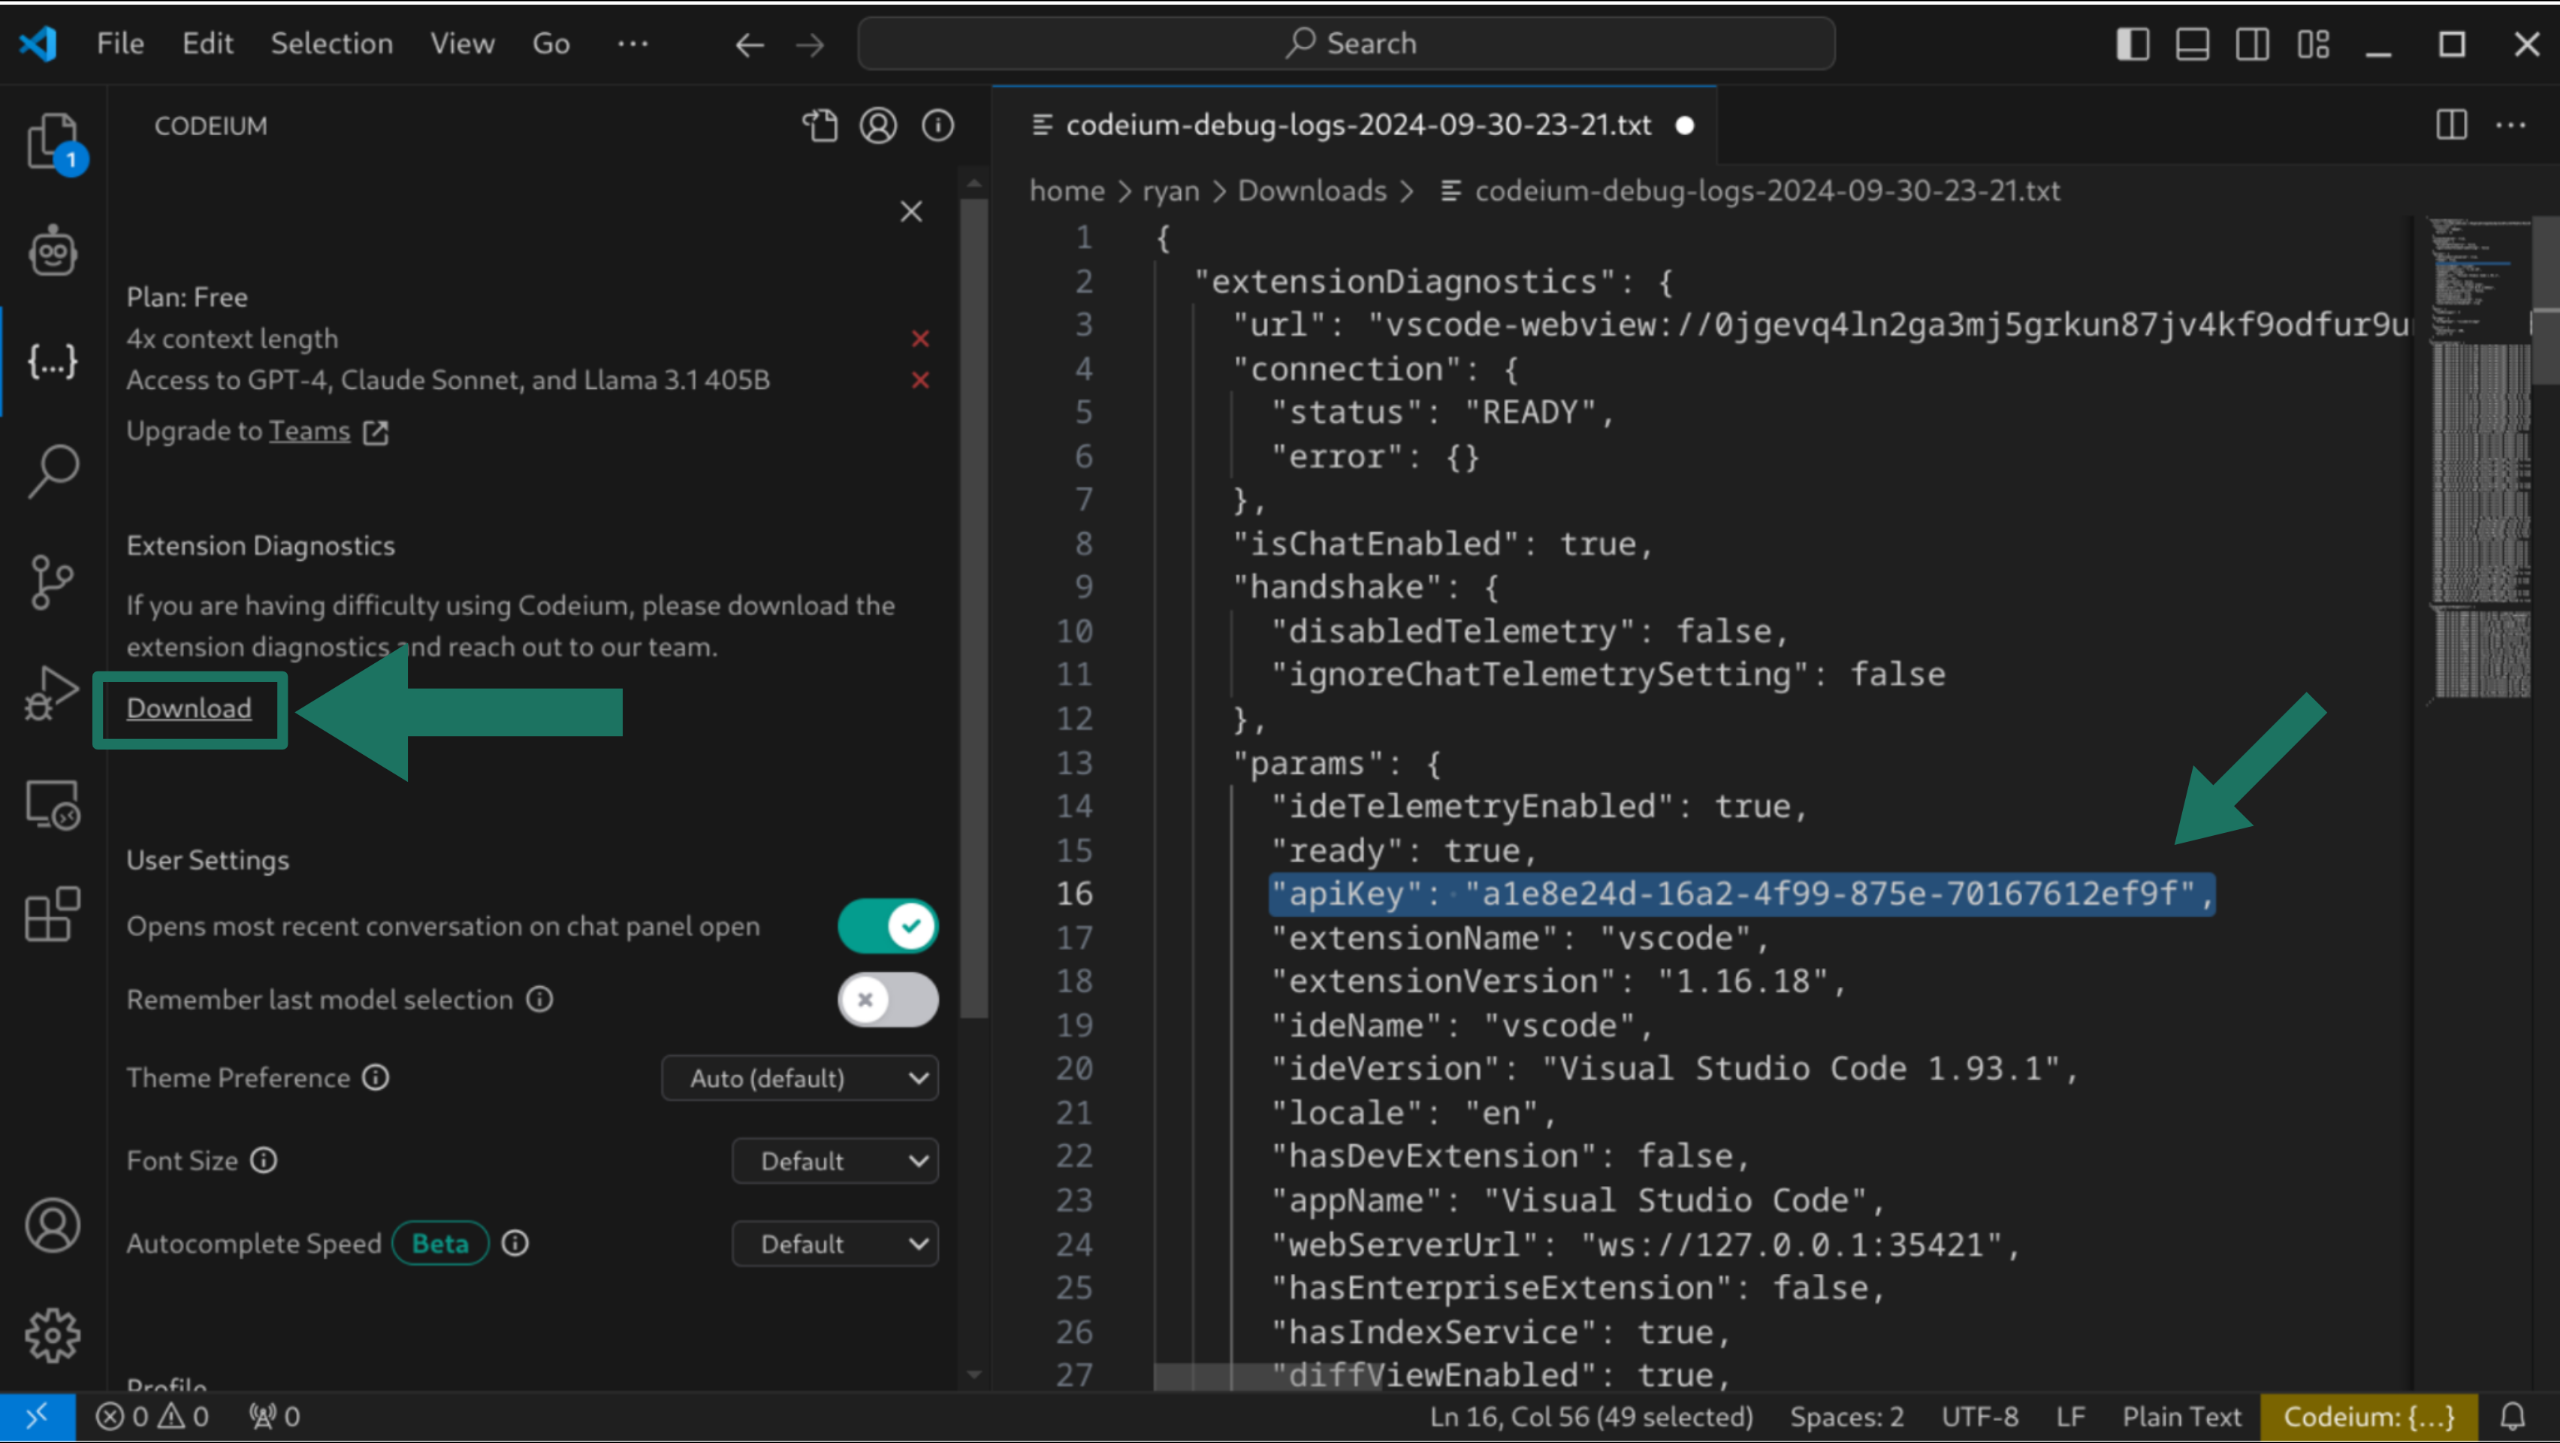
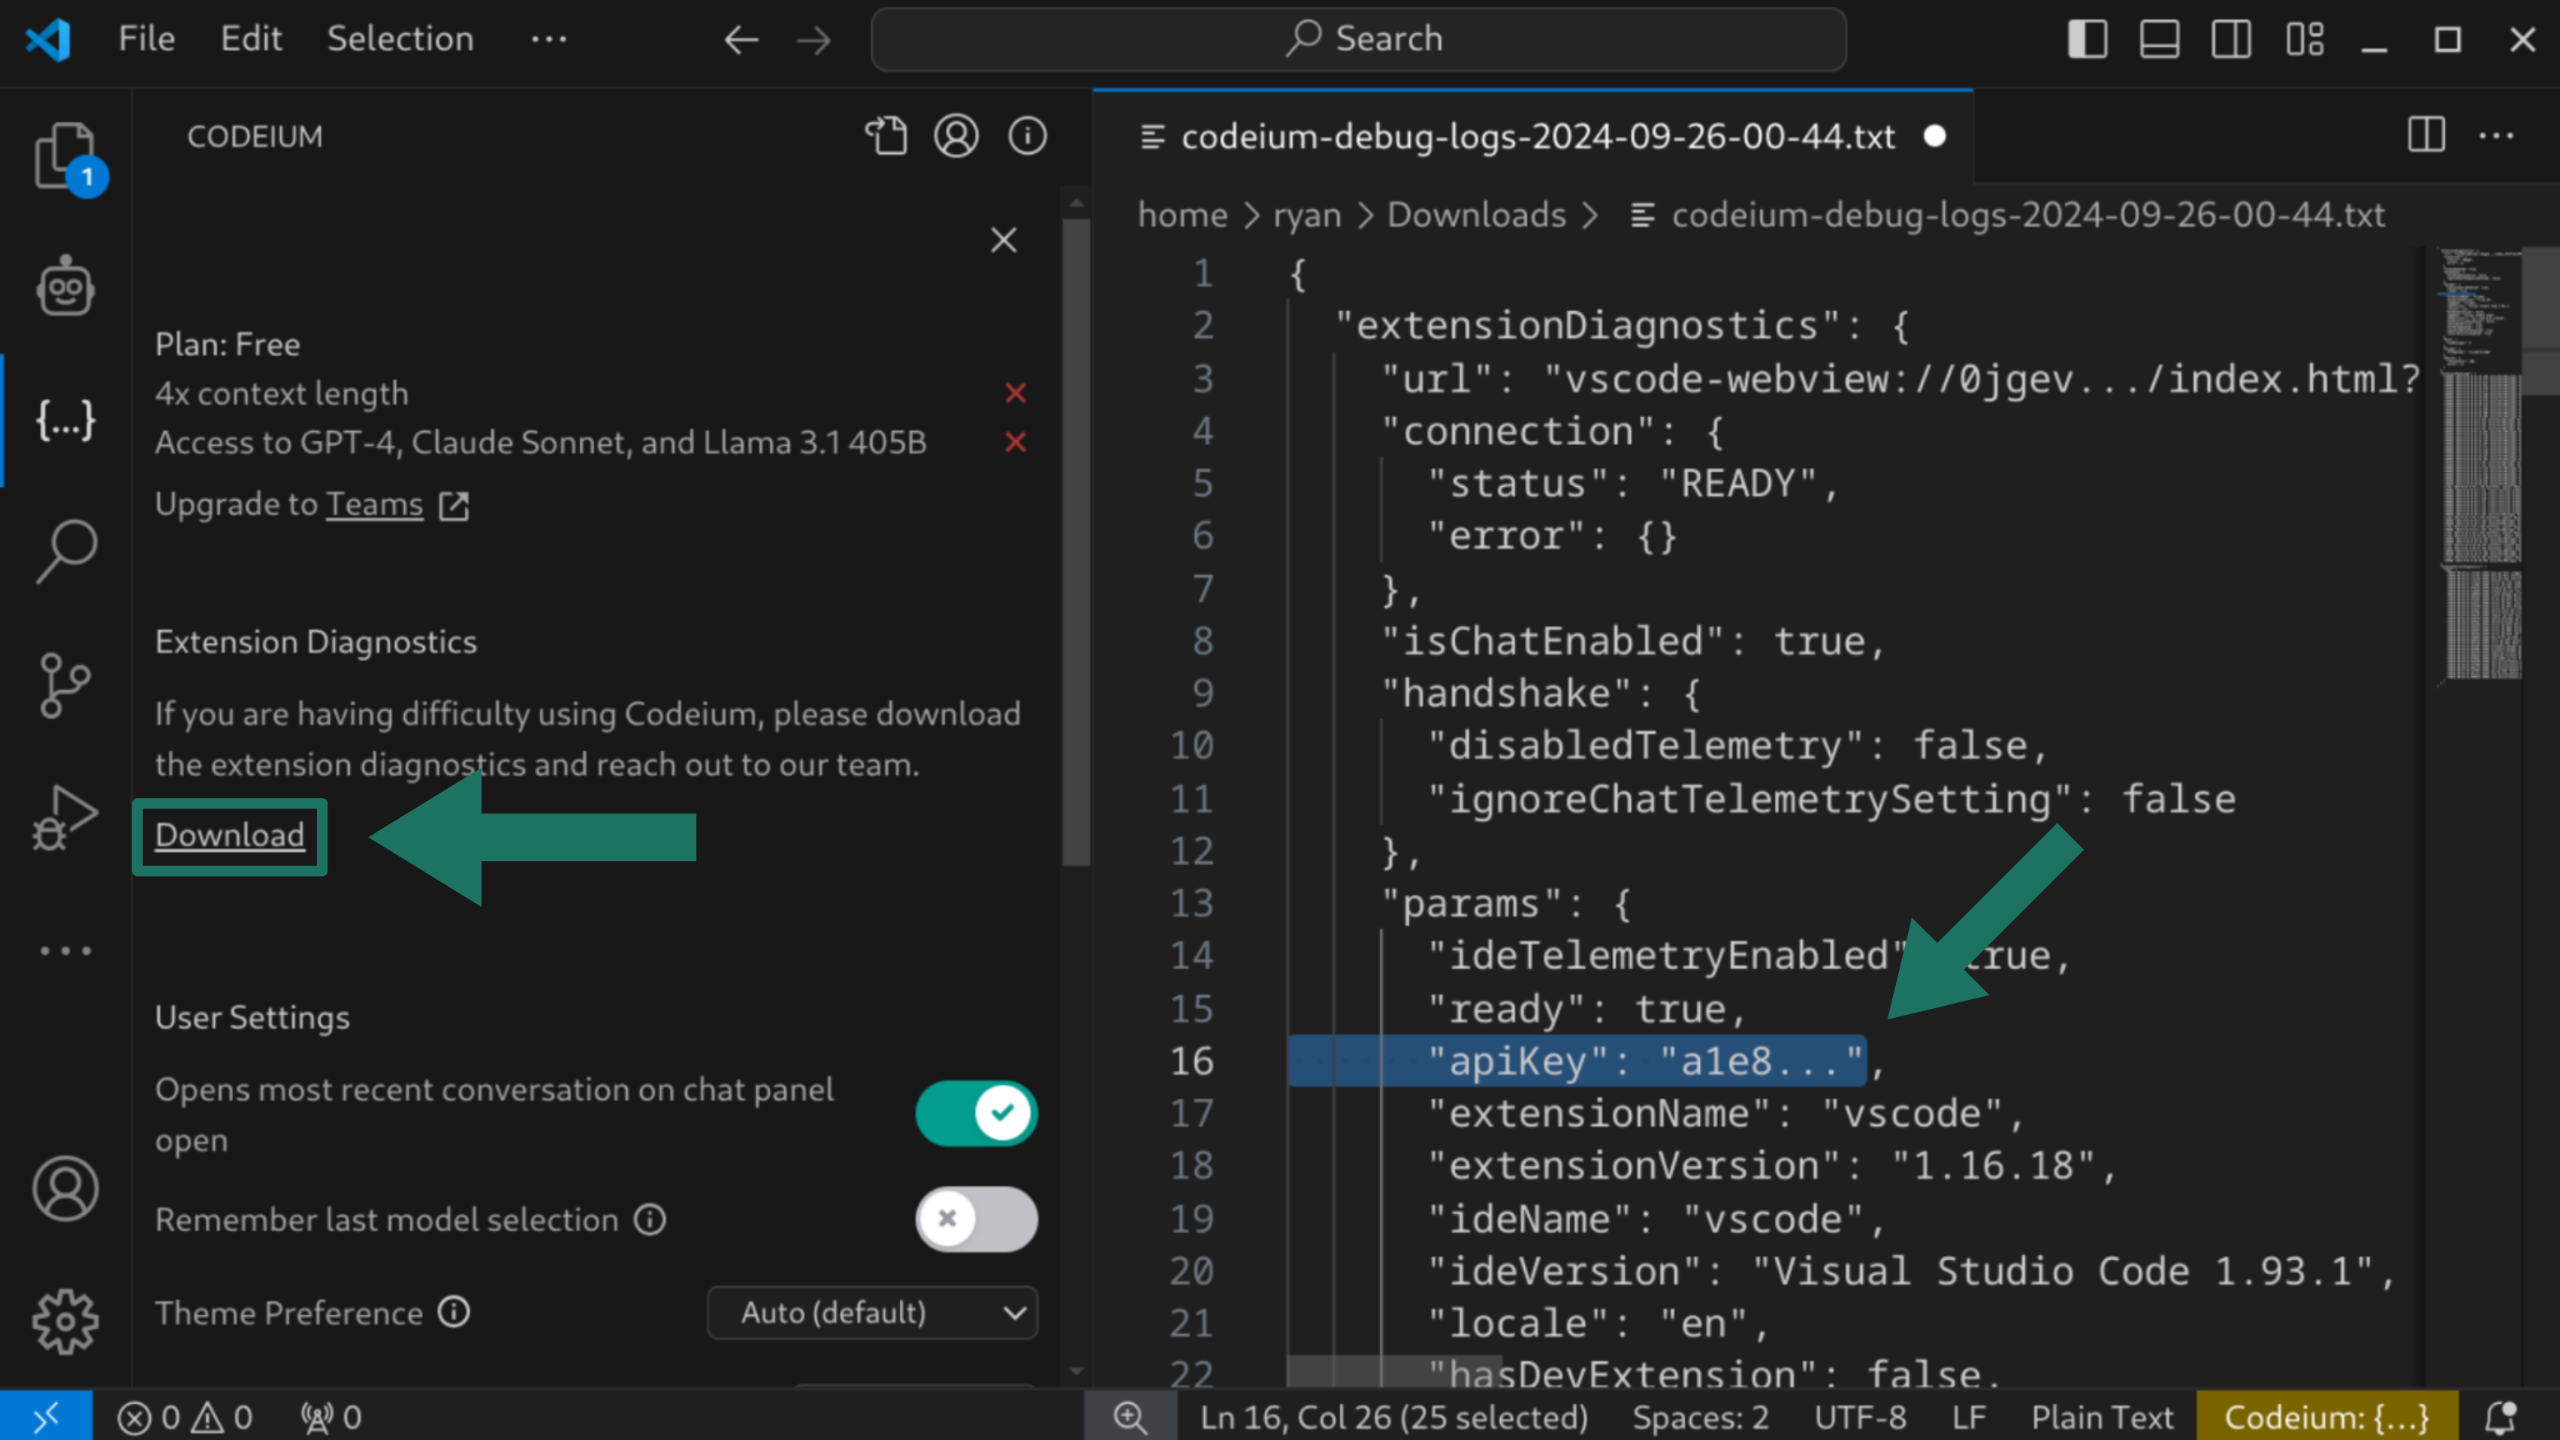
fix: update src attribute for images - fix links to screenshots - replace screenshots with updated versions that obfuscate the API key (which was a fake API key before, but still looked real. Now it's less confusing)

diff --git a/docs/guides/editor_features/ai_completion.md b/docs/guides/editor_features/ai_completion.md
@@ -44,16 +44,16 @@ codeium_api_key = ""
 
 <div align="center">
 <figure>
-<img src="/docs/_static/docs-ai-completion-codeium-vscode.png">
+<img src="/_static/docs-ai-completion-codeium-vscode.png">
 </figure>
 </div>
 
 6. Click the **Download** link under the **Extension Diagnostics** section
-7. Open the diagnostic file and search for `apiKey` (it will look similar to the value shown in the image below, which was randomly generated and not an actual API key)
+7. Open the diagnostic file and search for `apiKey`
 
 <div align="center">
 <figure>
-<img src="/docs/_static/docs-ai-completion-codeium-vscode-download-diagnostics.png">
+<img src="/_static/docs-ai-completion-codeium-vscode-download-diagnostics.png">
 </figure>
 </div>
 
